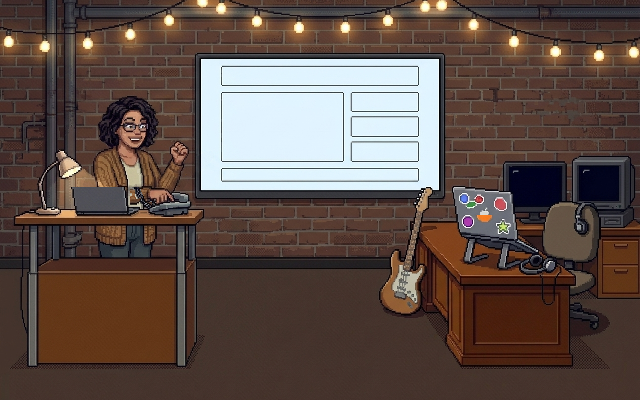
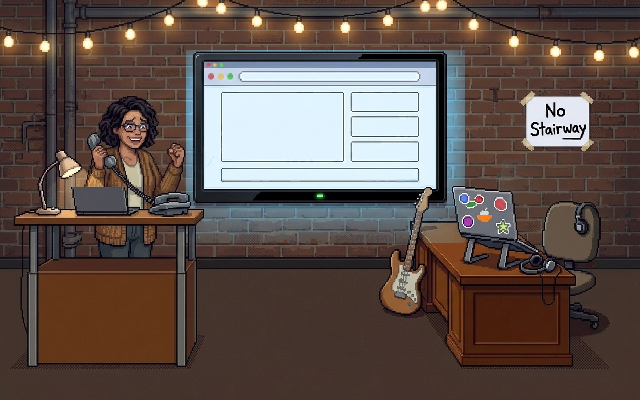
art: room-ch3 monitor reads as a TV, corner CRTs removed, No Stairway sign (2026-11-13)
Claude-Session: https://claude.ai/code/session_014bw7Voj6ZyqA75pqeRWNHh

Changed region(s): [[0.125, 0.12, 0.75, 0.63], [0.7812, 0.21, 1.0, 0.75]]

diff --git a/art-drops/2026-11-12-room-ch3/HANDBACK.md b/art-drops/2026-11-12-room-ch3/HANDBACK.md
@@ -61,11 +61,23 @@ Cloud Claude rewrote chapter 3 around this drop. These changes fit the art to it
 - **The guitar is right-handed,** which the script now uses ("Right-handed, like nine in ten of them").
 - **Script loose end:** `ch3.look.workstation` describes a separate workstation with a sticky note. The room has only the spare desk.
 
+
+## Round 2 (Rick, 2026-11-13)
+
+- **The wall display now clearly reads as a TV monitor,** not a whiteboard. It has a thick black bezel, a power light, and a blue glow on the bricks. The page has a **browser title bar** (three dots and an empty address bar). The same change is in `R3_wall_closeup`.
+  - **Wide shot:** the browser bar replaced the old top progress bar. In the room view, draw the progress in the address bar (**x 120–209, y 36–40**) or skip it, since text is too small at that size anyway. The other panels are unchanged: large x 111–171, y 46–80; small x 176–208 at y 46–55, 58–67, 71–80; lane x 111–208, y 84–90; whole screen x 102–217, y 34–94.
+  - **Close-up:** title bar y 22–32 with the address bar x 97–223, y 24–30; **top bar (progress) x 54–265, y 39–51**; large x 54–183, y 60–137; small x 192–265 at y 60–80, 88–109, 117–137; lane x 54–265, y 147–160. The page is pale, so draw in dark ink.
+- **The two old CRT monitors and their cabinet in the back right corner are gone.** Rick: they looked like 80s portable TVs. Only brick wall is behind the chair now.
+- **New sign: a handwritten "No Stairway" sheet** taped on the right wall at **x 263–294, y 48–72**. It's the only writing in the room, at Rick's request, so the guitar can get the prompt "No Stairway to Heaven". It could be its own small hotspot.
+- **`R3_npc_talk_2` and `R3_npc_win` were remade** on the new plate. Her figure now changes inside **x 7–120, y 7–161** across all three frames. **The frame-swap area for this room is x 7, y 7, w 114, h 155.**
+
 ## Flaws kept
 
 See "Changes from the brief". Nothing else known.
 
 ## Provenance
+
+- **Round 2 (2026-11-13):** one edit of the plate for the monitor, the corner and the sign (2 tries, t2 kept; only those three areas composited back). Close-up: an edit, 2 tries, t2 kept. Talk 2 and the win frame: new edits of the new plate, 2 tries each, t1 kept, with only her figure composited. Script: `scratch/room_gen/gen_set.py` (`R3_fix2`, `R3_wall2`, `R3_npc_talk_2b`, `R3_npc_win_b`). Earlier versions are in `raw/tries/R3_before_fix2/`.
 
 - **2026-11-13 updates:** one edit of the plate for the laptop and the sticker (2 tries, t1 kept; only those two areas composited back, then pasted into the talk frames). Win frame: an edit of the plate, 2 tries, t1 kept; only her figure composited. Script: `scratch/room_gen/gen_set.py` (`R3_fix`, `R3_npc_win`). The earlier versions are in `scratch/room_gen/raw/tries/R3_before_update/`.
 
